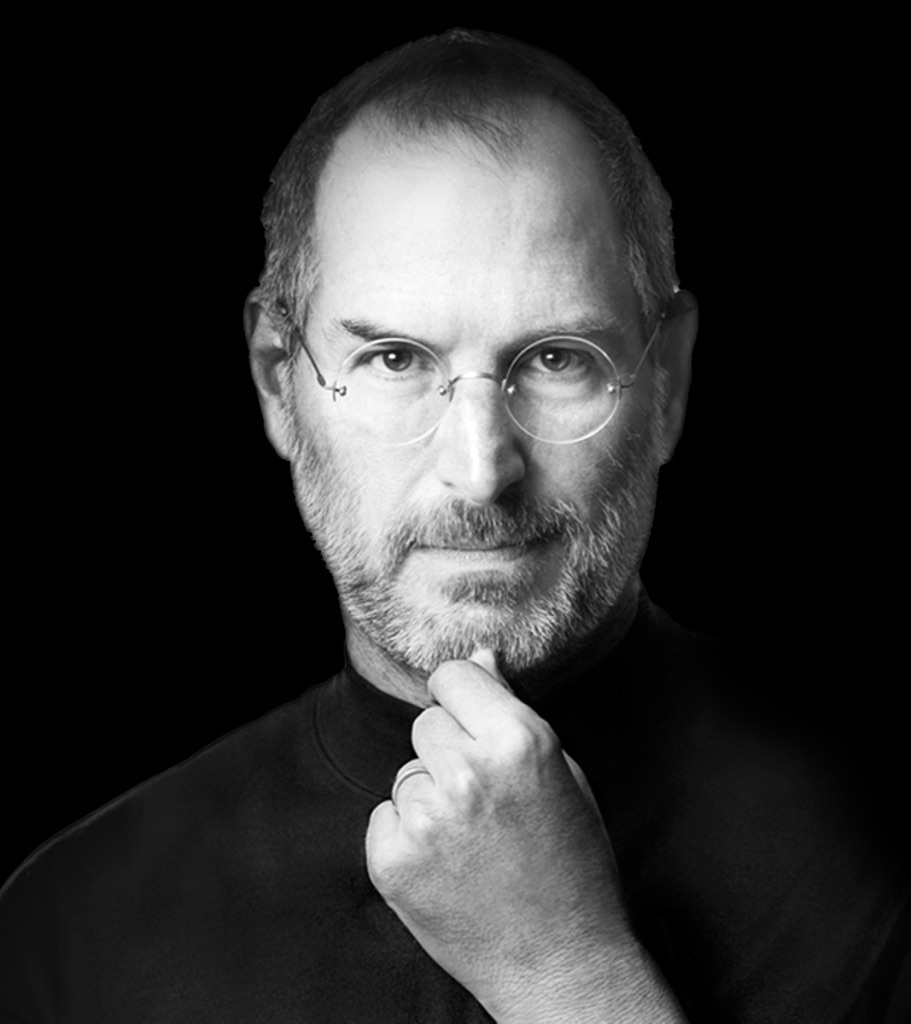
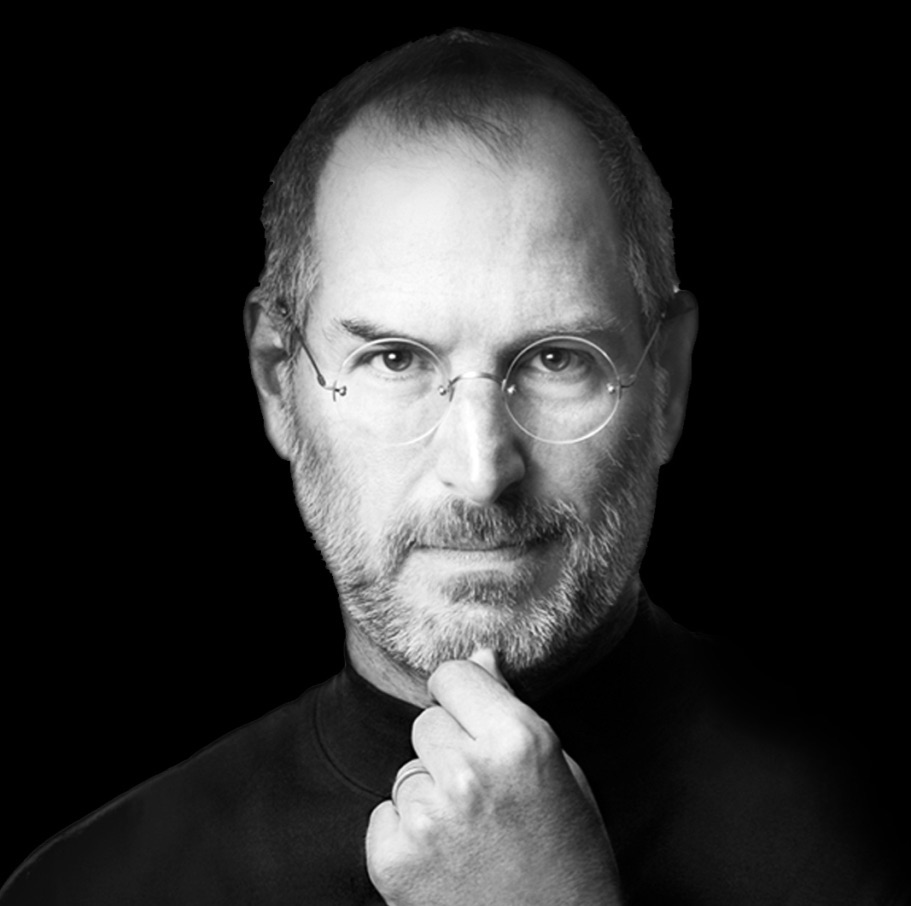
style changes

diff --git a/index.html b/index.html
@@ -18,51 +18,14 @@
                 <div id="img-caption"><p>Steve Jobs</p></div>
         </div>
         <div id="right">
-
-            <h1 id="title">Steve Paul Jobs</h1>
-            <div id="tribute-info">
+                <h1 id="title">Steve Paul Jobs</h1>
+                <div id="tribute-info">
                 24 February, 1955 - 5 October, 2011
-            </div>
-            <a id="tribute-link" href="https://de.wikipedia.org/wiki/Steve_Jobs" target="_blank">find out more about Steve Jobs here ></a>
-        </div>
-
-        <!--
-        <h1 id="title">Steve P. Jobs</h1>
-        <h2>- The Founder Of Apple -</h2>
-        
-        
-        <div class="container">
-            <div class="d1">
-                    <div id="img-div">
-                            <div><img  id="image" src="House.jpg" alt="Steve Jobs House"></div>
-                            <div id="img-caption"><p>The House of his parents and the garage where Jobs started Apple.</p></div>
-                    </div>
-            </div>
-                
-            <div class="d2">
-                    <div id="tribute-info">
-                            <h3>Steve Jobs fascinating career path:</h3>
-                            <ul style="list-style-type:disc">
-                                    <li>born on February 25th 1955 in San Francisco</li>
-                                    <li>he was adopted by Paul and Clare Jobs after hois mother had given him away for adoption</li>
-                                    <li></li>
-                                  </ul>
-                         </div>
-            </div>
-            <div class="d3">
-                    
-            </div>
-            <div class="d4">
-                    <div id="img-div">
-                            <div><img  id="image" src="stevejobs1.jpg" alt="Steve Jobs holding iPhone"></div>
-                            <div id="img-caption"><p>Steve Jobs introducing the iPhone 4 in 2010.</p></div>
-                    </div>
-            </div>
-            <div class="d5">
-                    <a id="tribute-link" href="https://de.wikipedia.org/wiki/Steve_Jobs" target="_blank">find out more about Steve Jobs here</a>
-            </div>
-        </div> -->
-         
+                </div>
+                <h3> " If you haven't found what you want to do yet, keep looking. <br> 
+                        Don't Settle " </h3>
+                <a id="tribute-link" href="https://de.wikipedia.org/wiki/Steve_Jobs" target="_blank">find out more about Steve Jobs here ></a>
+        </div>  
     </div>
 </body>
 </html>

diff --git a/main.css b/main.css
@@ -17,8 +17,8 @@ body {
 }
 #image {
     float: left;
-    width: 100%;
     height: auto;
+    width: 750px;
     max-width: 911px;
 }
 #right {
@@ -35,9 +35,14 @@ body {
     margin: auto;
     position: relative;
 }
+#right h3 {
+    font-size: 20pt;
+    position: relative;
+    top: 8em;
+}
 @media screen and (min-width: 851px) and (max-width: 50000px) {
     #right a {
-        top: 40em;
+        bottom: 10px;
     }
 }
 @media screen and (min-width: 0px) and (max-width: 850px) {
@@ -48,60 +53,7 @@ body {
         width: 100%;
     }
     #right a {
-        top: 30em;
+        bottom: 10px;
     }
 }
-/*
-h2 {
-    padding-bottom: 1.5em;
-}
-#image {
-    max-width: 100%;
-    width: 50%;
-    height: auto;
-    display: block;
-    margin: auto; 
-    border-radius: 10%;
-}
-h1 {
-    font-size: 50px;
-}
-#img-caption {
-    font-style: italic;
-}
-.container {
-    font-size: 20px;
-    width: 100%;
-    background: LightGray;
-    color: white;
-    display: grid;
-    grid-template-columns: 50% 50%;
-    line-height: 1.5;
-}
-.d1{
-    background: black;
-    height: 20em;
-    padding-bottom: 3em;
-}
-.d2{background: black;
-    height: 20em;
-    text-align: left;
-    padding-bottom: 3em;
-}
-.d3{
-    background: black;
-    height: 20em;
-}
-.d4{background: black;
-    height: 20em;  
-}
-.d5{
-    background: black;
-    grid-area: 3/1/4/3;
-    height: 5em;
-}
-.d5 a {
-    color: lightblue;
-}
-*/
 
